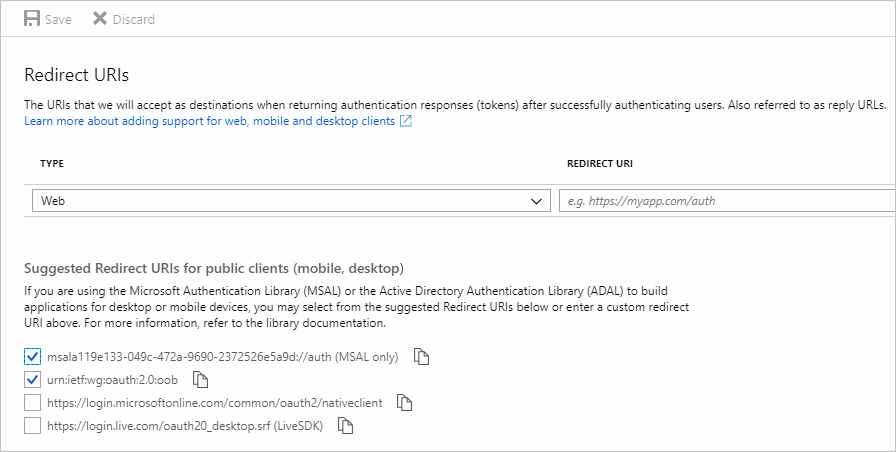
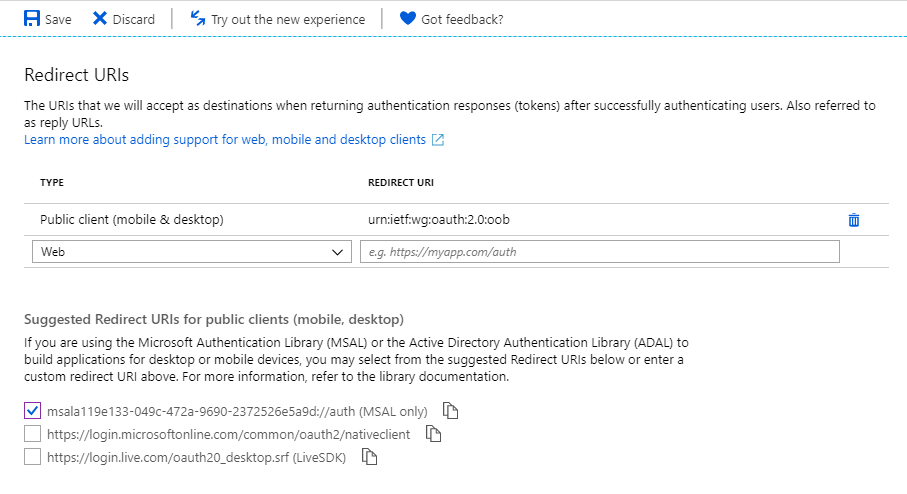
Updated app registration steps

diff --git a/tutorial/register-app.md b/tutorial/register-app.md
@@ -12,7 +12,7 @@ In this exercise you will create a new Azure AD native application using the Azu
 
     - Set **Name** to `Xamarin Graph Tutorial`.
     - Set **Supported account types** to **Accounts in any organizational directory and personal Microsoft accounts**.
-    - Leave **Redirect URI** empty.
+    - Under **Redirect URI (optional)**, change the dropdown to **Public client (mobile & desktop)**, and set the value to `urn:ietf:wg:oauth:2.0:oob`.
 
     ![A screenshot of the Register an application page](./images/aad-register-an-app.png)
 
@@ -20,6 +20,6 @@ In this exercise you will create a new Azure AD native application using the Azu
 
     ![A screenshot of the application ID of the new app registration](./images/aad-application-id.png)
 
-1. Select the **Add a Redirect URI** link. On the **Redirect URIs** page, locate the **Suggested Redirect URIs for public clients (mobile, desktop)** section. Select the URI that begins with `msal` **and** the **urn:ietf:wg:oauth:2.0:oob** URI. Copy the value that begins with `msal`, then choose **Save**. Save the copied redirect URI, you will need it in the next step.
+1. Select the **Authentication** under **Manage**. Locate the **Suggested Redirect URIs for public clients (mobile, desktop)** section. Select the URI that begins with `msal`. Copy that value, then choose **Save**. Save the copied redirect URI, you will need it in the next step.
 
     ![A screenshot of the Redirect URIs page](./images/aad-redirect-uris.png)
